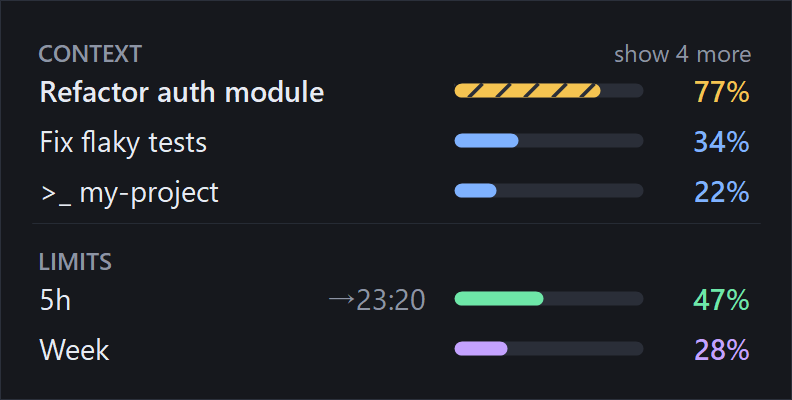
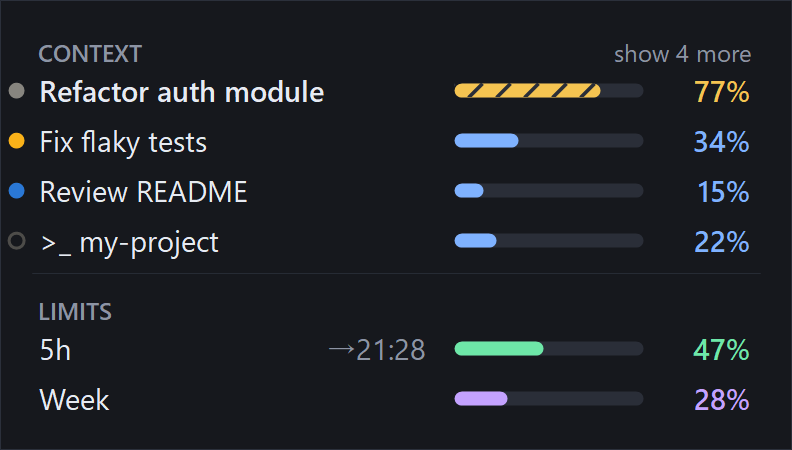
Show the session dots in the README panel images
The sample behind --hud-preview now gives its sessions a state, and gains a
fourth row, so the README images show the dots for working, waiting for
approval, an unread reply and finished. The alt text says so.

diff --git a/src/CtxTray/Program.cs b/src/CtxTray/Program.cs
@@ -669,6 +669,18 @@ namespace CtxTray
                                         338000, false, false, state != "stopped"));
             snap.Sessions.Add(SampleRow("my-project", 221000, false, true, true));
 
+            // README の画像: 状態の丸を見せる（応答中・承認待ち・未読・終わった）。
+            // 3 行（未読なし）と 4 行の実寸の見本から、利用者が 4 行を選んだ（2026-10-03）。
+            if (state == "normal")
+            {
+                snap.Sessions[0].Activity = Core.SessionActivity.Busy;
+                snap.Sessions[1].Activity = Core.SessionActivity.WaitingPermission;
+                snap.Sessions[2].Activity = Core.SessionActivity.Idle;
+                var unread = SampleRow(japanese ? "README の見直し" : "Review README", 152000, false, false);
+                unread.Activity = Core.SessionActivity.Unread;
+                snap.Sessions.Insert(2, unread);
+            }
+
             // 状態の丸の全種類（応答中・承認待ち・回答待ち・未読・終わった）。highlight は待っている行の強調をオンにした姿。
             if (state == "activity" || state == "highlight")
             {

diff --git a/README.md b/README.md
@@ -11,7 +11,7 @@ plus bars drawn into the tray icon.
 
 <picture>
   <source media="(prefers-color-scheme: dark)" srcset="docs/images/ctxtray-hud-en-dark.png">
-  <img alt="The ctxtray panel: context usage for three sessions, then the 5-hour and weekly limits" src="docs/images/ctxtray-hud-en-light.png" width="352">
+  <img alt="The ctxtray panel: context usage for four sessions, each with a dot showing whether it is working, waiting for approval, has an unread reply or has finished, then the 5-hour and weekly limits" src="docs/images/ctxtray-hud-en-light.png" width="352">
 </picture>
 
 <picture>
